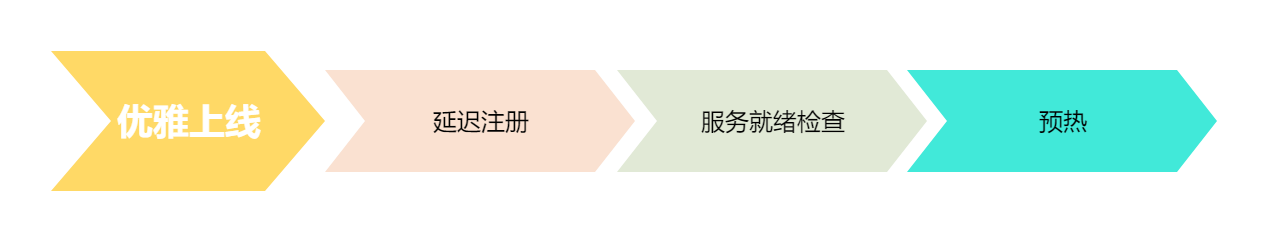
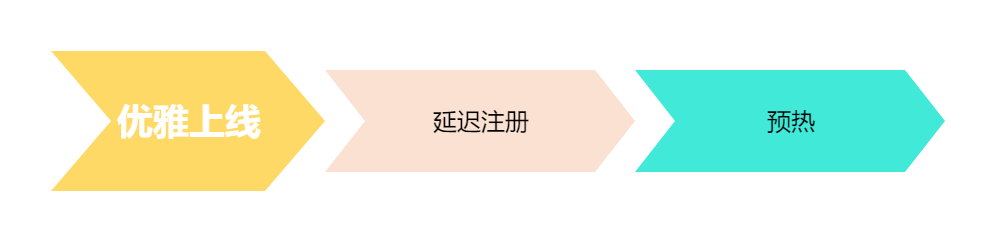
[doc] update graceful plugin

Changed region(s): [[0.0311, 0.2025, 0.8715, 0.8099], [0.9026, 0.2893, 0.9649, 0.7231]]

diff --git a/docs/zh/document/plugin/graceful.md b/docs/zh/document/plugin/graceful.md
@@ -16,19 +16,17 @@
 - 服务自身存在大量懒加载机制（例如负载均衡初始化），在服务刚上线时，因并发流量请求涌入，导致大量请求同时进行懒加载，以至于请求响应慢，线程阻塞，甚至最终导致服务崩溃。
 - 服务无法做到优雅下线，比如服务端下线而客户端服务无法及时感知，导致流量流入已下线的实例，从而丢失大量流量。
 
-针对以上两个问题，插件提供预热和延迟下线机制，为服务提供优雅上线和优雅下线的能力。预热是优雅上线的核心机制，延迟下线时优雅下线的核心机制，而且为了优雅上线，还做了延迟注册机制和服务就绪检查。
+针对以上两个问题，插件提供预热和延迟下线机制，为服务提供优雅上线和优雅下线的能力。预热是优雅上线的核心机制，延迟下线时优雅下线的核心机制，而且为了优雅上线，还做了延迟注册机制。
 
 <MyImage src="/docs-img/elegant-online.png"/>
 
 **延迟注册：** 若服务还未完全初始化就已经注册到注册中心提供给消费者调用，很有可能因资源为加载完成导致请求报错。可以通过设置延迟注册，让服务充分初始化后再注册到注册中心对外提供服务。
 
-**服务就绪检查：** 确保服务在对外提供服务之前服务已经完全启动就绪，插件提供了相应的就绪检查API接口。
-
 **预热：** 顾名思义，即先用少部分流量对实例访问，后续根据时间推移，逐渐增加增加流量，确保新启动实例能成功过渡。
 
 <MyImage src="/docs-img/elegant-offline.png"/>
 
-**延迟下线：** 即对下线的实例提供保护，插件基于**实时通知**+**刷新缓存的机制**快速更新上游缓存，同时基于流量统计的方式，确保即将下线的实例尽可能的将流量处理完成，最大程度避免流量丢失。
+**延迟下线：** 即对下线的实例提供保护，插件基于**下线实时通知**+**刷新缓存的机制**快速更新上游的实例缓存，同时基于流量统计的方式，确保即将下线的实例尽可能的将流量处理完成，最大程度避免流量丢失。
 
 ## 参数配置
 
@@ -62,13 +60,7 @@ grace.rule:
 | grace.rule.upstreamAddressMaxSize    | 缓存上游地址的默认大小。上游实例接收主动通知的地址会被下游缓存，此处设置地址最多的缓存个数。                                                    | 5000           | 是    |
 | grace.rule.upstreamAddressExpiredTime| 缓存上游地址的过期时间, 单位S。上游实例接收主动通知的地址会被下游缓存，此处设置地址的失效时间。                                              | 60            | 是    |
 
-## 微服务就绪检查和优雅关闭
-
-**就绪检查：** 为确保服务在对外提供服务之前服务已经完全启动就绪。优雅上下线插件提供了相应的就绪检查API接口：
-
-```api
-/$$sermant$$/healthCheck
-```
+## 微服务优雅关闭
 
 **优雅关闭：** 服务自身需要实现优雅关闭处理逻辑，如延迟下线时需及时通知到上游应用（减少服务下线后消费者服务未及时感知到，仍继续调用已下线服务导致的请求错误）。优雅上下线插件提供了相应的优雅关闭API接口：
 
@@ -76,7 +68,7 @@ grace.rule:
 /$$sermant$$/shutdown
 ```
 
-以容器化服务为例（Sermant容器化部署依赖[injector组件](../user-guide/injector.md)）：给SpringCloud应用配置了就绪检查探针以及preStop钩子。
+以容器化服务为例（Sermant容器化部署依赖[injector组件](../user-guide/injector.md)）：给SpringCloud应用配置了preStop钩子。
 
 ```yaml
 apiVersion: apps/v1
@@ -101,12 +93,6 @@ spec:
           value: /xxx
         image: xxx
         imagePullPolicy: Always
-        readinessProbe:
-          httpGet:
-            port: 16688  # 优雅上下线插件配置中的httpServerPort
-            path: /$$sermant$$/healthCheck
-          initialDelaySeconds: 1
-          periodSeconds: 3
         name: spring-cloud-xxx
         ports:
         - containerPort: 8080
@@ -122,7 +108,7 @@ spec:
                   - /bin/sh
                   - '-c'
                   - >-
-                    wget http://127.0.0.1:16688/$$sermant$$/shutdown 2>/tmp/null;sleep
+                    curl -XPOST http://127.0.0.1:16688/$$sermant$$/shutdown 2>/tmp/null;sleep
                     30;exit 0
                     # 在POD停止前通知实例进行下线，其中16688为下线通知端口，优雅上下线插件配置中的httpServerPort
 ```
@@ -169,7 +155,7 @@ mvn clean package
 
 `consumer  ----------->  provider(两实例)  ------------->  data`
 
-其中consumer开启优雅上下线能力，一个provider实例开启预热与优雅下线能力， 另一个provider实例仅开启优雅下线能力。
+其中consumer开启优雅上下线能力，一个provider实例开启预热与优雅下线能力， 另一个provider实例仅开启优雅下线能力，data服务接受到请求后会返回自身服务名+IP地址信息。
 
 > **注意：** 下面通过应用启动时的-D参数对优雅上下线插件参数进行配置。
 
